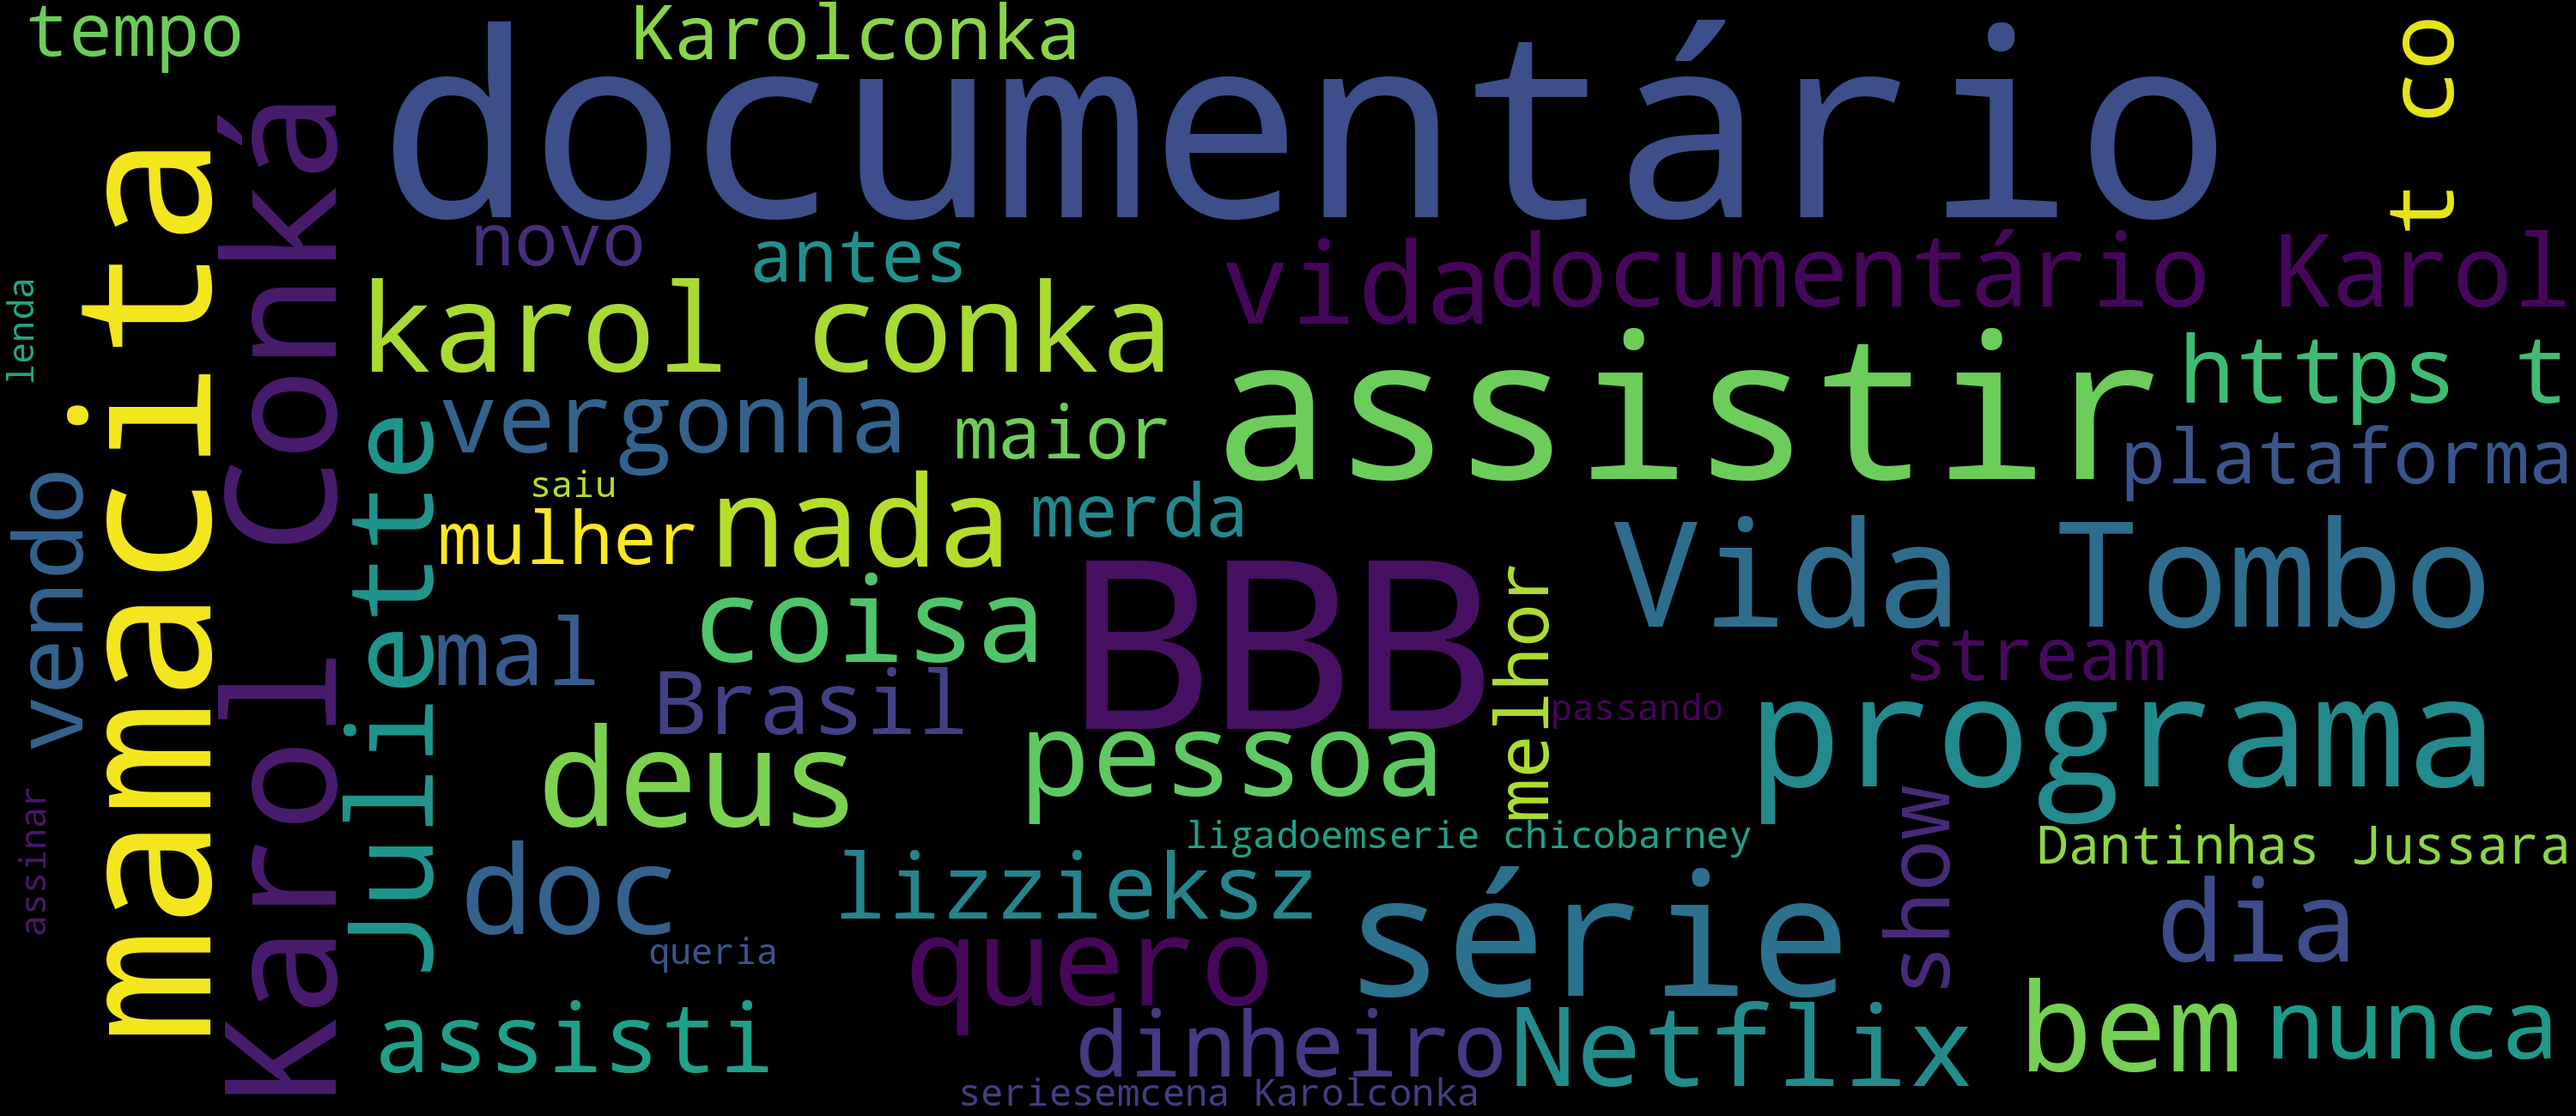
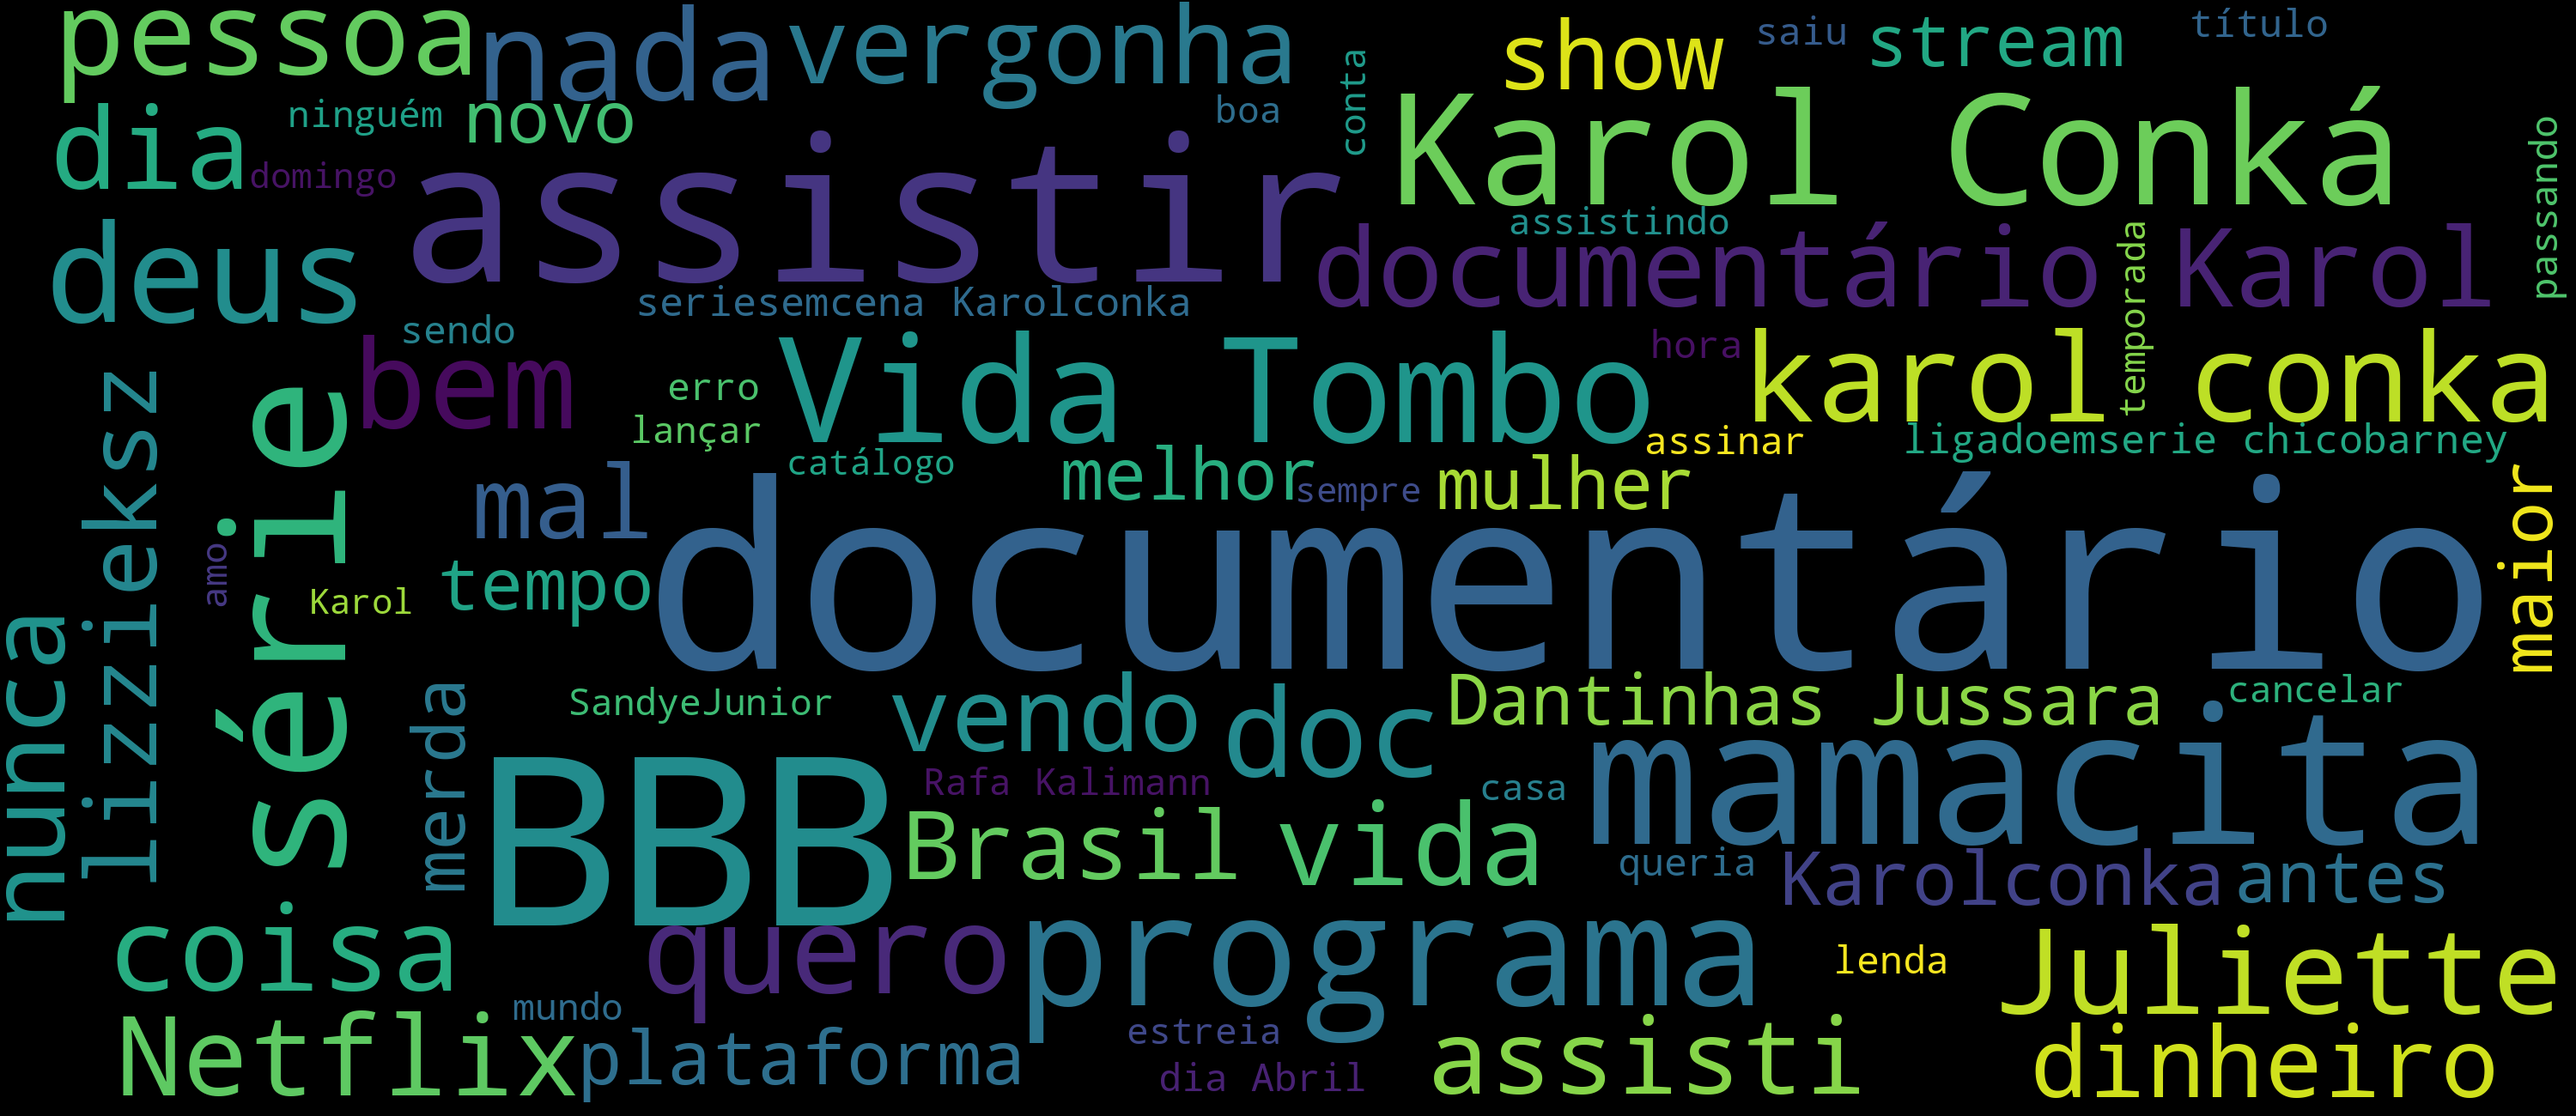
fix function to remove https

diff --git a/TEXT_EXPLORATORY_APP/views.py b/TEXT_EXPLORATORY_APP/views.py
@@ -163,6 +163,7 @@ def convert_text_to_no_repeat_words(text):
 
 
 def text_cleaner(text,stop_words_domain =None):
+
     try:
         nltk_stopwords =  stopwords.words('portuguese') + stop_words_domain
 
@@ -172,31 +173,35 @@ def text_cleaner(text,stop_words_domain =None):
         nltk_stopwords = stopwords.words('portuguese')
 
     regex_stop_words = '|'.join(nltk_stopwords)
-    text = re.sub(r"\shttps([a-zA-Zà-úÀ-Ú0-9]|[-()\"#/@;:<>{}`+=~|.!?,])+$|^https([a-zA-Zà-úÀ-Ú0-9]|[-()\"#/@;:<>{}`+=~|.!?,])+\s|\shttps([a-zA-Zà-úÀ-Ú0-9]|[-()\"#/@;:<>{}`+=~|.!?,])+\s"," ",text)
-    
-    text = re.sub(r"\s+"," ",text)
 
     
-    
+    regex_remove_https = 'https([a-zA-Zà-úÀ-Ú0-9]|[-()\#/@;:<>{}`+=~|.!?,])+'
+
+
+    text_without_https = re.sub(r"(\s|^){0}(\s{0})*($|\s)".format(regex_remove_https)," ",text)
+
+
+    text_without_special_caracteres = re.sub(r"[^a-zA-ZÀ-Úà-ú]+"," ",text_without_https)
+
+    text_without_alone_caractere = re.sub(r"\s[a-zA-ZÀ-Úà-ú0-9]\s|\s[a-zA-ZÀ-Úà-ú0-9]$|^[a-zA-ZÀ-Úà-ú0-9]\s"," ",text_without_special_caracteres)
     
 
-    if re.search(r"https",text):
+    text_pattern_space = re.sub(r"\s+"," ",text_without_alone_caractere)
 
-        print("\n")
-        print(text)
-        print("\n")
+    
+    text_split = text_pattern_space.split(" ")
 
-    text = re.sub(r"[^a-zA-ZÀ-Úà-ú]+"," ",text)
-    
-    
-    text_split = text.split(" ")
     
     text_list = [i for i in text_split  if norm('NFKD', i).encode('ascii', 'ignore').decode().lower() not in nltk_stopwords_processed]
 
-    text = " ".join(text_list)
+
+    text_final = " ".join(text_list)
 
 
-    return text
+    
+
+
+    return text_final
 
 
 stop_words_domain=["globoplay",
@@ -217,7 +222,7 @@ stop_words_domain=["globoplay",
                     "então","viu","vemos","pode","podemos","vez",
                     "vcs","hein","quer","sim","deu","já","demos",
                     "todas","aqui","sei","sabemos","fazer","fiz",
-                    "fez","fazemos","vem","vamos","ainda","tanto"]
+                    "fez","fazemos","vem","vamos","ainda","tanto","nesse"]
 
 data_tweets_final["text"] = data_tweets_final["text"].apply(lambda x: text_cleaner(text=x,stop_words_domain=stop_words_domain)) 
 
@@ -486,7 +491,7 @@ data = {
 
 text = " ".join(review for review in data_tweets_final.text)
 
-wordcloud = WordCloud(max_font_size=300, max_words=50, background_color="black",width=3000, height=1300).generate(text)
+wordcloud = WordCloud(max_font_size=300, max_words=70, background_color="black",width=3000, height=1300).generate(text)
 
 wordcloud.to_file(IMAGE_PATH)
 
